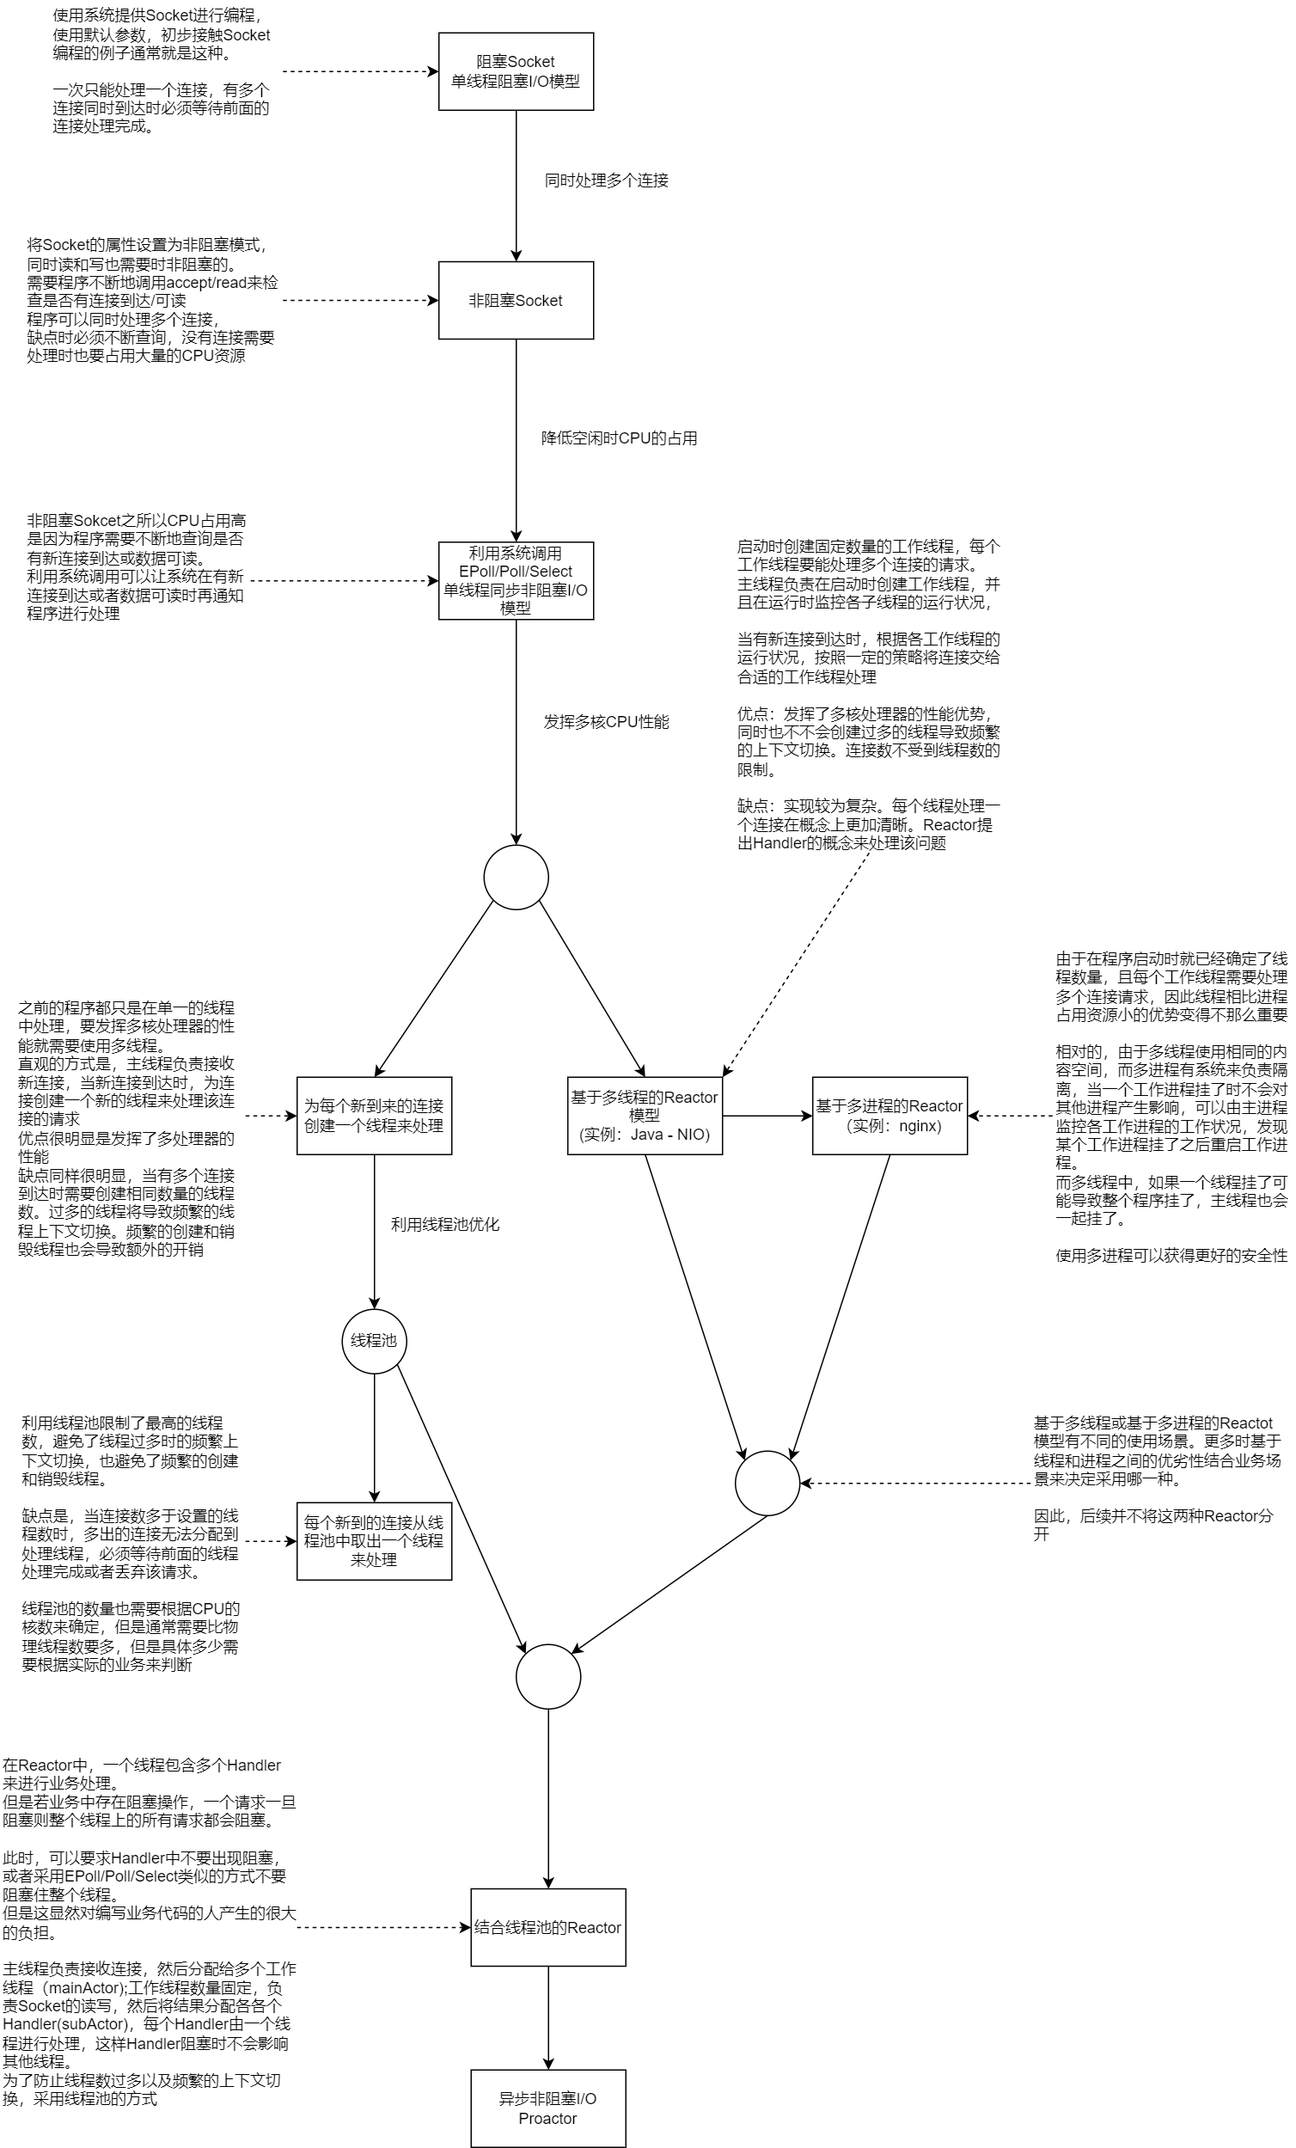
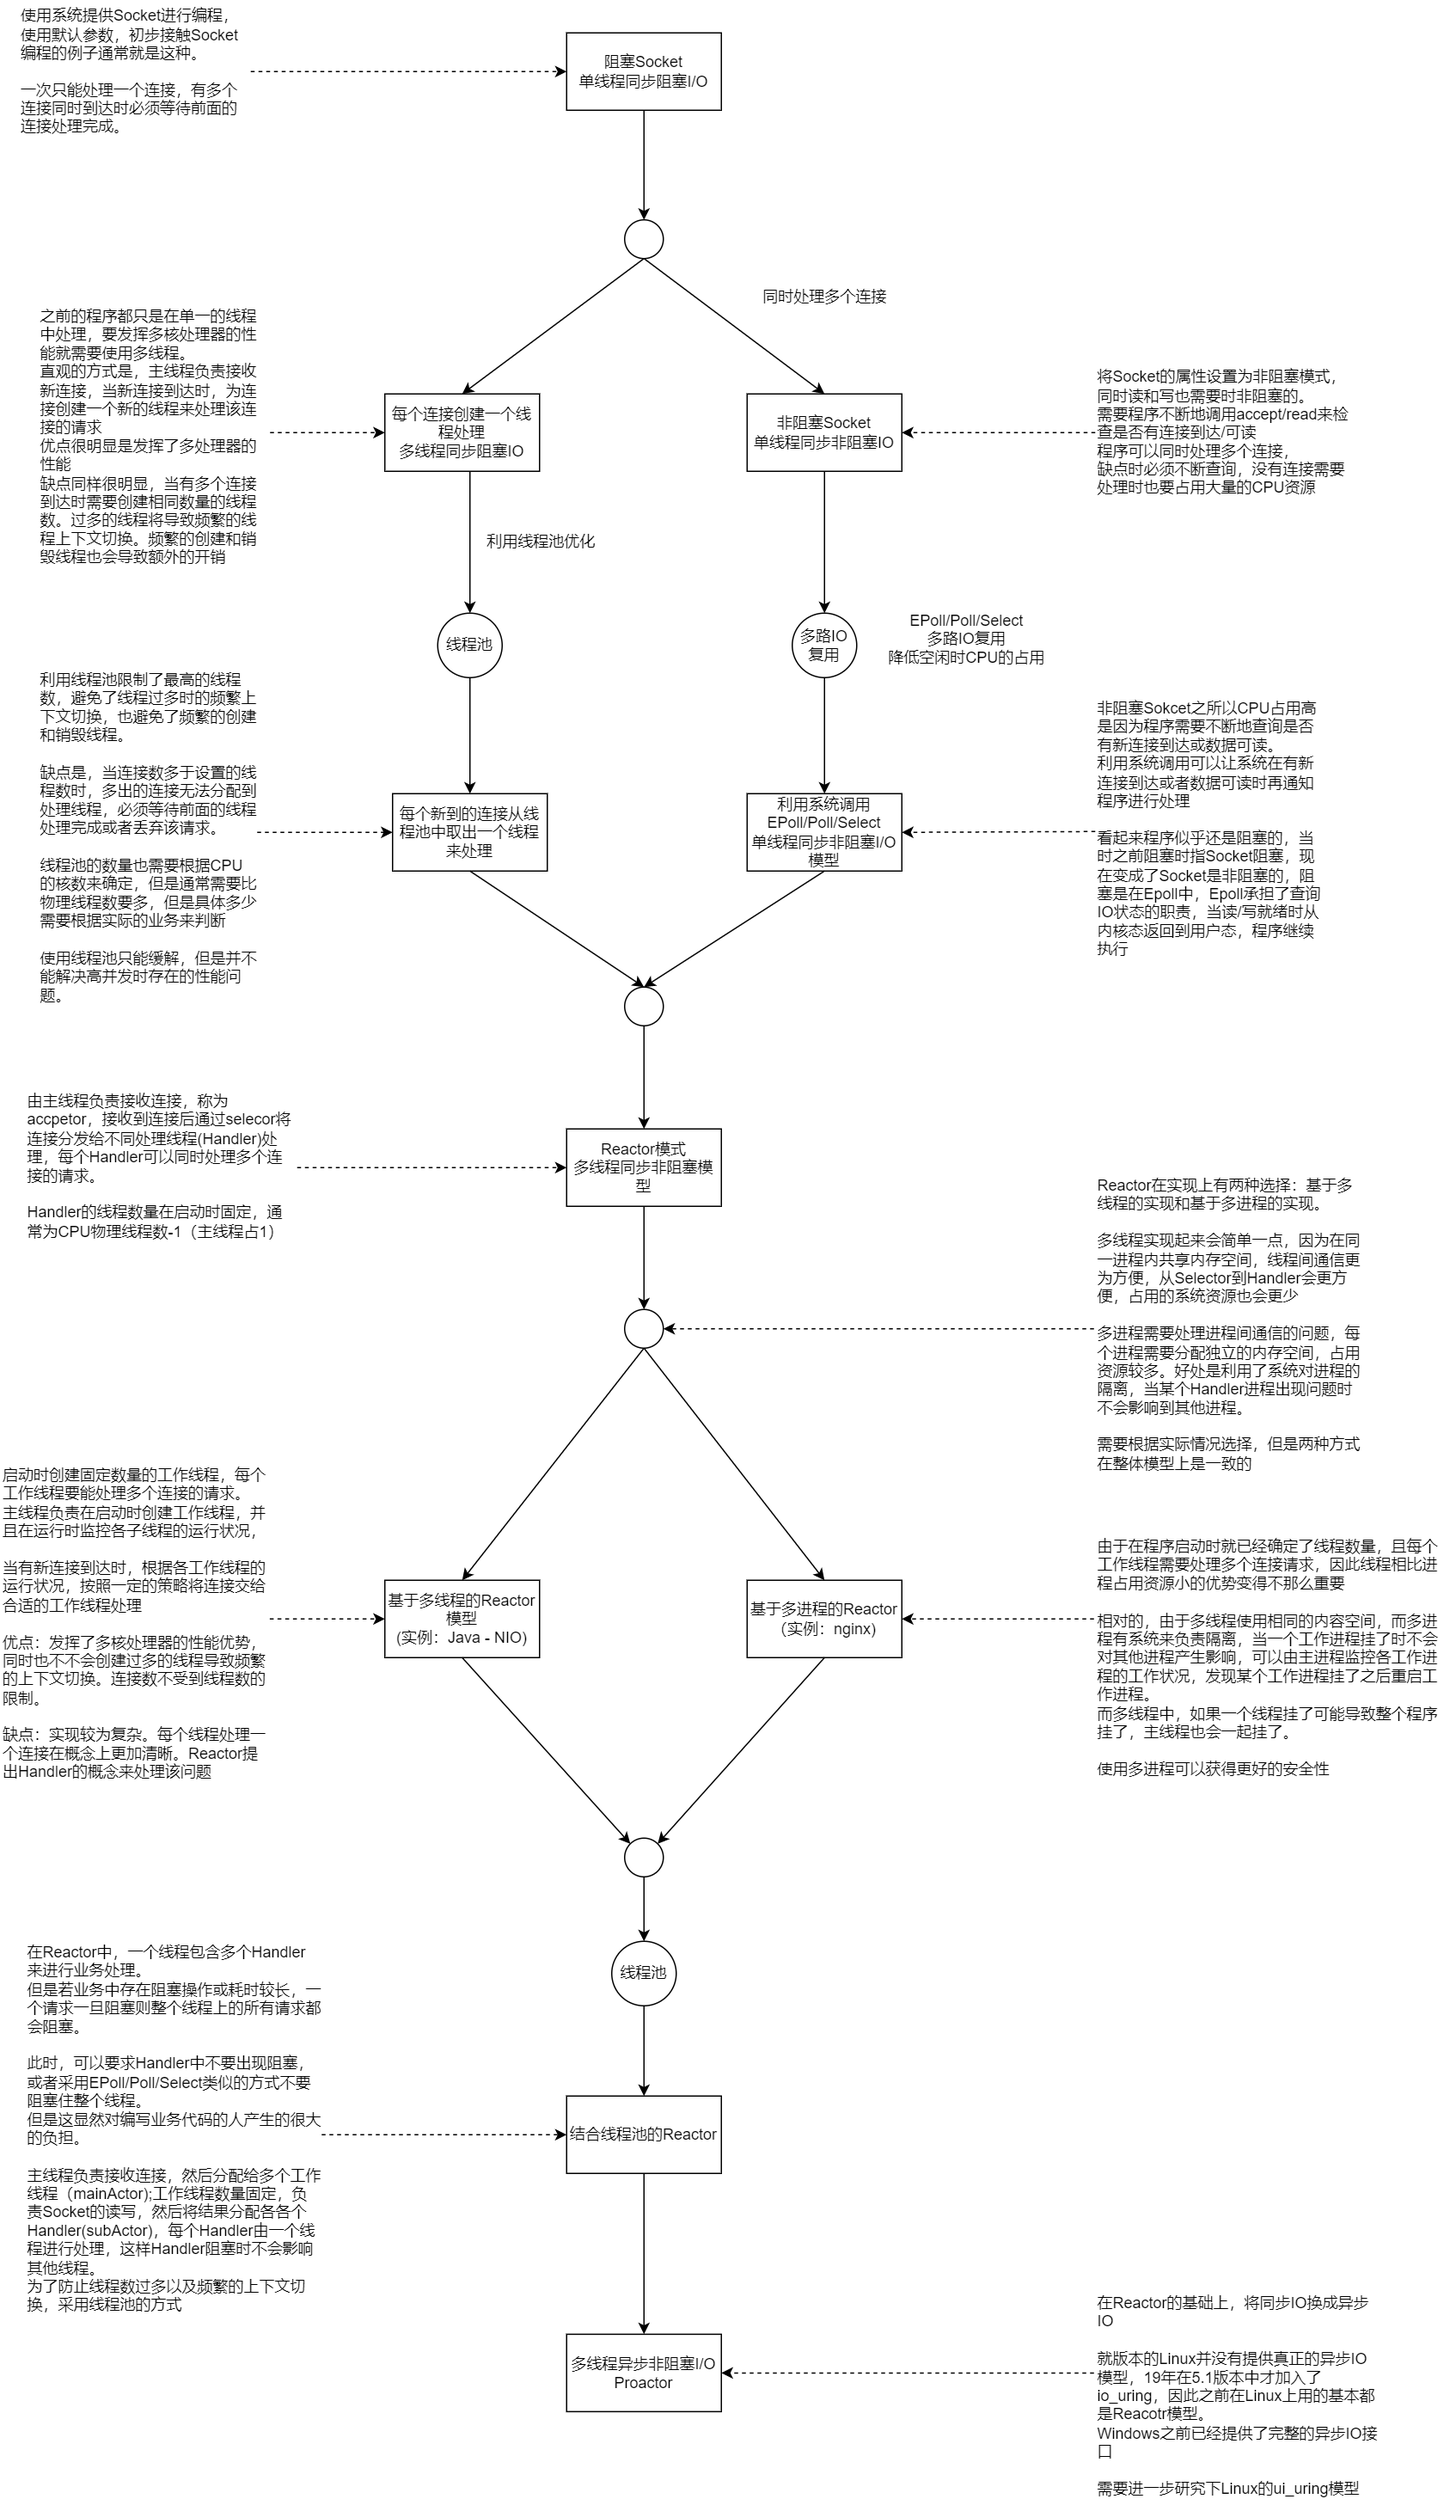
修改网络IO模型梳理图，为每个Socket文章标题添加说明

diff --git a/_posts/2023-05-01-network-io-model.md b/_posts/2023-05-01-network-io-model.md
@@ -9,4 +9,18 @@ categories: network reactor
 
 本文对这些模型的梳理仅代表个人的看法，按照本人的思路从最简单的单线程阻塞IO模型如何扩展进化到Reactor及Proactor的梳理。
 
-![从单线程阻塞IO模型到Proactor](../image/network-io-model.png)
+![从网络IO模型梳理](../image/network-io-model.png)
+
+上图梳理了个人对网络IO模型发展的认识，从最简单的单线程阻塞IO模型然后一步步完善功能发展到Reactor模型以及Proactor模型。个人理解这些模型模型并不是一蹴而就的，通过梳理可以了解到不同模型之间的差异，存在什么缺陷以及为了解决这些缺陷提出了什么方法而演进到下一个模型。
+
+从模型的名字可以看到，这些模型主要在三个方向的组合：单线程还是多线程，同步还是异步，阻塞还是非阻塞。其中同步还是异步等到最后才来处理，在前面的模型的组合就是是否单线程和是否阻塞的组合，即：
+1. 单线程同步阻塞IO
+2. 多线程同步阻塞IO
+3. 单线程同步非阻塞IO
+4. 多线程同步非阻塞IO
+
+在解决了以上问题之后，才提出了基于异步IO的多线程异步非阻塞IO。
+
+从整体的模型上看是这五类IO模型，到了具体的实现层面需要根据不同的场景进行优化，加入线程池和多路IO复用，以及选择基于线程的实现方案还是基于进程的实现方案衍生出了不同的实现方式
+
+# 单线程同步阻塞IO

diff --git a/_posts/2022-11-04 从零开始的Socket编程 二(单线程同步阻塞IO).md b/_posts/2022-11-04 从零开始的Socket编程 二(单线程同步阻塞IO).md
@@ -1,15 +1,15 @@
 ---
 layout: post
-title:  "从零开始的Socket编程 二"
+title:  "从零开始的Socket编程 二 —— 单线程同步阻塞IO"
 date:   2022-11-04 +0800
 categories: Socket C++
 ---
 
-# 从零开始的Socket编程 二
+# 从零开始的Socket编程 二 —— 单线程同步阻塞IO
 
 前文已经介绍了socket的相关概念,通信流程和相关接口,本文给出用于socket进行通信的简单代码.虽然代码比较简单,仅能实现通信,无法用于实际的生产环境中,后续将慢慢基于此代码进行改造. 
 
-需要说明的时,代码是基于Linux的,Windows下的Socket需要进行一定的调整
+代码是基于Linux的,Windows下的Socket需要进行一定的调整
 
 本文的代码在以下系统版本可正常运行
 > Linux version 5.10.102.1-microsoft-standard-WSL2 (oe-user@oe-host) (x86_64-msft-linux-gcc (GCC) 9.3.0, GNU ld (GNU Binutils) 2.34.0.20200220) 

diff --git a/_posts/2023-03-23 从零开始的Socket编程 三(单线程同步非阻塞IO).md b/_posts/2023-03-23 从零开始的Socket编程 三(单线程同步非阻塞IO).md
@@ -1,11 +1,11 @@
 ---
 layout: post
-title:  "从零开始的Socket编程 三"
+title:  "从零开始的Socket编程 三 —— 单线程同步非阻塞IO"
 date:   2023-03-23 +0800
 categories: Socket C++
 ---
 
-# 从零开始的Socket编程 三
+# 从零开始的Socket编程 三 —— 单线程同步非阻塞IO
 之前已经给出了简单的Socket服务端的简单代码了，但是存在着很多问题。一个最明显的问题就是，该服务一次只能处理一个请求，当有一个请求正在处理时，新到达的请求必须等待，直到现有的请求处理完成后才能被处理。
 
 对于服务端而言，一个明显的要求就是要能处理多个客户端发起的请求，因此第一个改进就是要让程序能够同时处理多个请求。

diff --git a/_posts/2022-11-01-从零开始的Socket编程 一(API).md b/_posts/2022-11-01-从零开始的Socket编程 一(API).md
@@ -1,11 +1,11 @@
 ---
 layout: post
-title:  "从零开始的Socket编程 一"
+title:  "从零开始的Socket编程一 —— API介绍"
 date:   2022-11-01 +0800
 categories: Socket C++
 ---
 
-# 从零开始的Socket编程 一
+# 从零开始的Socket编程一  —— API介绍
 ---
 
 ## 使用Socket
